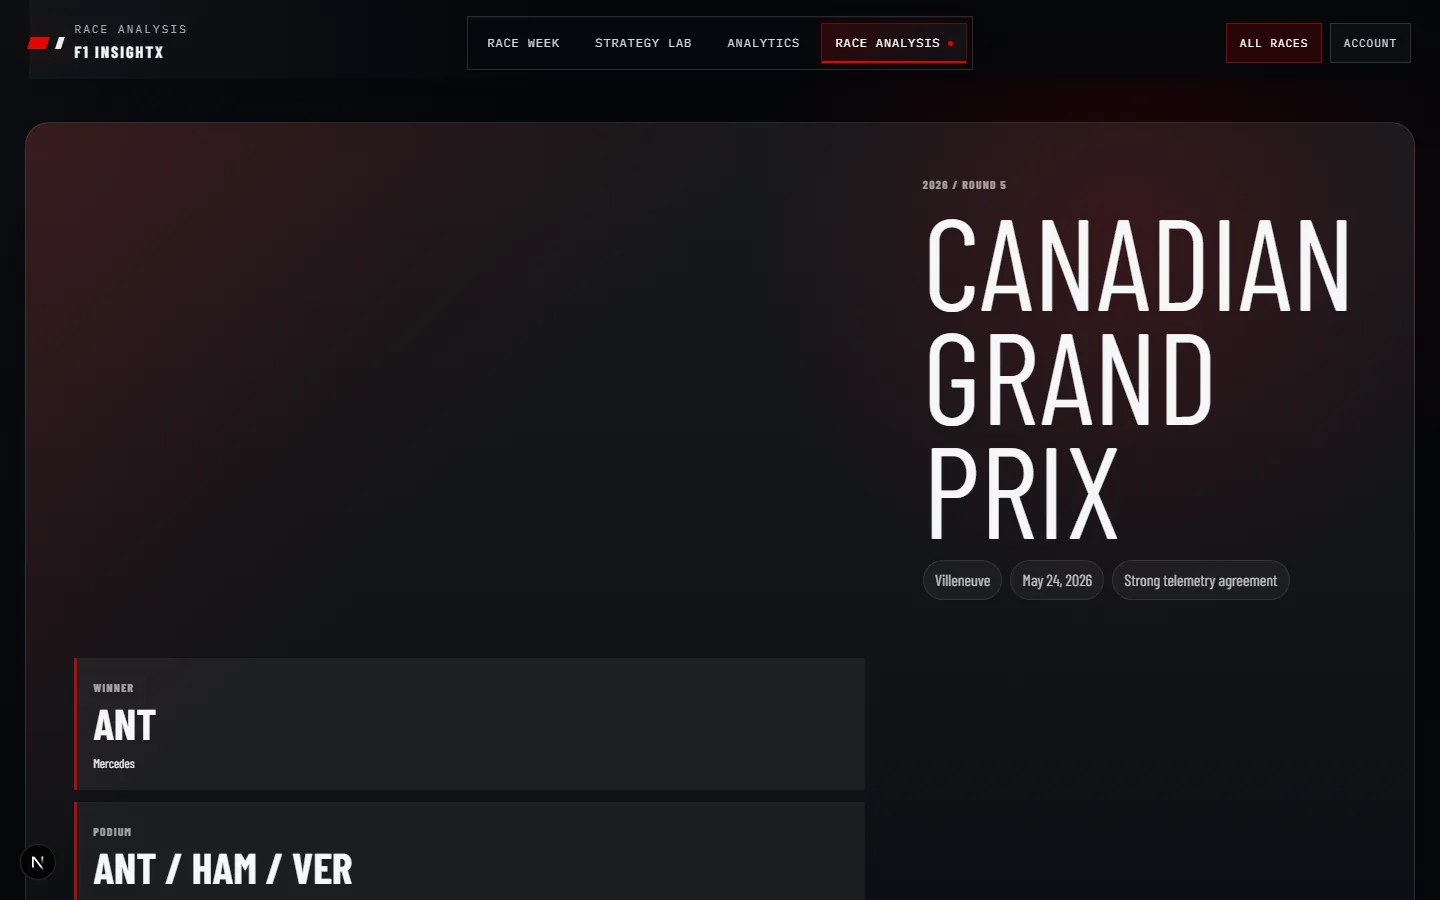
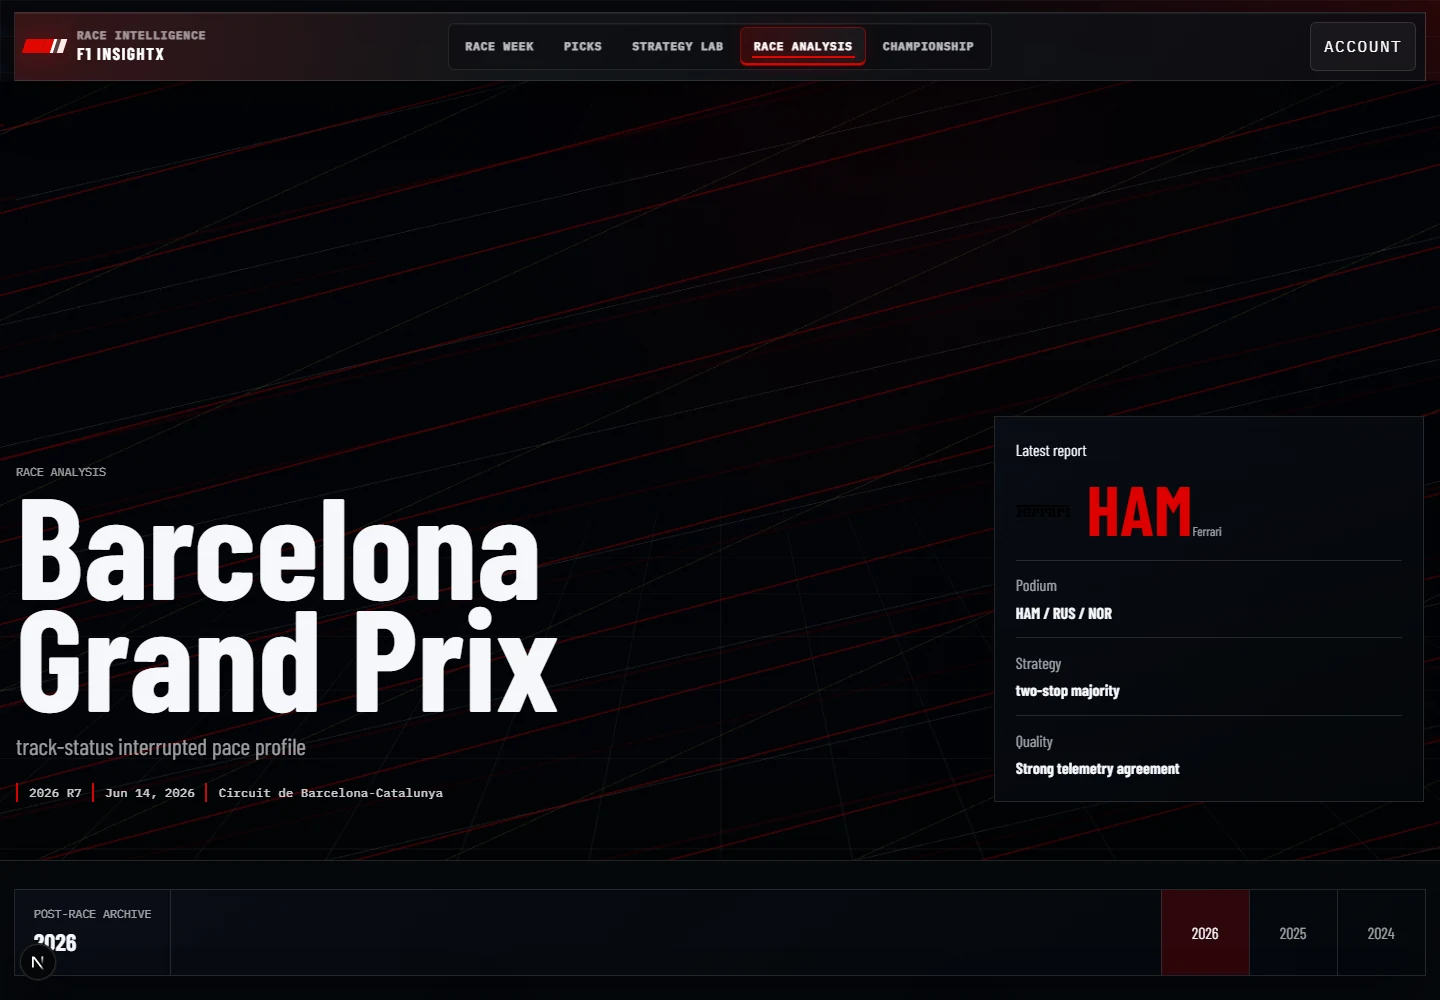
Refresh README data and screenshots

diff --git a/README.md b/README.md
@@ -2,37 +2,61 @@
 
 **Premium F1 telemetry and race intelligence.**
 
-F1 InsightX turns deterministic FastF1 data pipelines into focused race-week, strategy, telemetry, and post-race product experiences. The Next.js application reads compact offline-generated product views; it never parses raw telemetry at runtime.
+F1 InsightX turns deterministic FastF1 data pipelines into focused race-week, strategy, telemetry, championship, and post-race product experiences. The Next.js application reads compact offline-generated product views and indexed shards; it does not parse raw telemetry at runtime.
 
 ## Product Preview
 
-### Analytics - Telemetry Workstation
+### Home - Race Intelligence Overview
 
-Canvas-first driver-vs-driver telemetry comparison with real circuit geometry, representative traces, synchronized focus, same-team color disambiguation, approximate segment analysis, and honest energy deployment proxies.
+First-screen race command view with the next race, current circuit geometry, product navigation, and season context for the active Formula 1 weekend.
 
-![F1 InsightX Analytics telemetry workstation](docs/assets/screenshots/analytics-workstation.webp)
+![F1 InsightX home race intelligence overview](docs/assets/screenshots/home.webp)
 
 ### Race Analysis - Post-Race Intelligence
 
-A cinematic completed-race report built from observed results and deterministic pace, stint, strategy, weather, track-status, traffic-proxy, and position-movement views.
+Cinematic completed-race reports built from observed results and deterministic pace, stint, strategy, weather, track-status, traffic-proxy, and position-movement views.
 
 ![F1 InsightX Race Analysis report](docs/assets/screenshots/race-analysis.webp)
 
 ### Race Week - Weekend Command Center
 
-Upcoming-race context, schedule state, circuit features, conditions, and generated race-week signals presented without inventing unavailable session data.
+Upcoming-race context, schedule state, circuit features, conditions, and generated race-week signals for the Austrian Grand Prix without inventing unavailable session data.
 
 ![F1 InsightX Race Week command center](docs/assets/screenshots/race-week.webp)
 
+### Championship - Season Control
+
+Driver, constructor, and race-derived season records with historical year switching and team-aware visual context.
+
+![F1 InsightX Championship standings](docs/assets/screenshots/championship.webp)
+
 ## Product Surfaces
 
-- **Analytics**: telemetry-derived driver comparison using indexed, session-scoped product shards, representative trace visuals, real circuit geometry, and same-team comparison colors.
+- **Home**: next-race overview, circuit preview, race history, and standings entry points.
 - **Race Analysis**: completed-race story, strategy, pace evolution, weather, track-status, traffic-proxy, and position-movement views.
-- **Strategy Lab**: pit-wall strategy console for deterministic stint and race-strategy simulation with explicit assumptions and sensitivity drivers.
-- **Race Week**: current weekend context, schedule, conditions, circuit metadata, and pre-session signals.
+- **Race Week**: current weekend context, schedule, conditions, circuit metadata, and qualifying prediction signals.
+- **Strategy Lab**: deterministic stint and race-strategy simulation with explicit assumptions and sensitivity drivers. Current next-race Austrian Grand Prix output is pending.
+- **Championship**: driver standings, constructor standings, historical season switching, and achievement-style leaderboards.
 - **Account/Profile**: Supabase-backed authentication, profile, privacy, and account-management flows.
 
+Analytics remains an underlying telemetry product layer and data source. The public `/analytics` route currently redirects to `/race-analysis`, so it is not presented as a primary README screenshot surface.
+
 Fantasy is intentionally hidden from the visible product until it is rebuilt as a separate surface.
+
+## Latest Data Snapshot
+
+The latest local product manifest is `product_manifest_20260618T204630Z`, generated at `2026-06-18T20:46:30Z`, with overall status `passed`.
+
+| Surface | Current evidence |
+| --- | --- |
+| Canonical FastF1 | 361,422 laps, 13,261 results, 46,958 stints, 13,040 session-summary rows, 76 drivers |
+| Telemetry features | 13,060 lap-summary rows; 91,569 energy/straight rows; 104,289 corner speed, braking, throttle, and driver-corner rows |
+| Analytics layer | 663 sessions, 122,479 driver comparisons, 975,725 segment/braking/throttle rows, 856,389 straight/energy-proxy rows |
+| Race Analysis | 52 race analyses, 58,465 pace rows, 58,392 position timeline rows, 1,787 pit-strategy rows |
+| Race Week | Austrian Grand Prix, round 8, scheduled `2026-06-28T13:00:00Z`; race-week product view available |
+| Strategy Lab | Barcelona Grand Prix strategy product available; Austrian Grand Prix Strategy Lab build pending |
+
+Freshness caveat: `season_state` currently validates but is stale by the product-manifest threshold. Treat current-state copy as release-candidate data until the season state is refreshed.
 
 ## Architecture
 
@@ -52,8 +76,9 @@ FastF1 archive
 | `data/canonical_fastf1` | Validated canonical laps, results, stints, sessions, and weather |
 | `data/telemetry_features` | Telemetry-derived segment, braking, throttle, straight-line, and energy-proxy features |
 | `data/strategy_lab` | Deterministic Strategy Lab product views |
-| `data/analytics` | Analytics product views, indexed session shards, and representative trace artifacts |
+| `data/analytics` | Telemetry product views, indexed session shards, and representative trace artifacts |
 | `data/race_analysis` | Completed-race intelligence views |
+| `data/race_week` | Current race-week context, predictions, circuit metadata, and weekend readiness views |
 | Supabase | Authentication, profiles, and deployable database-backed surfaces |
 
 ## Local Development
@@ -94,6 +119,10 @@ python data/build_analytics_indexes.py
 python data/build_analytics_telemetry_traces.py
 python validate_analytics_views.py
 python validate_analytics_telemetry_traces.py
+python data/build_race_analysis_views.py
+python validate_race_analysis_views.py
+python data/build_race_week_layers.py
+python build_season_state.py
 python build_product_manifest.py
 python validate_product_manifest.py
 python check_generated_artifacts.py
@@ -104,7 +133,7 @@ python check_generated_artifacts.py
 - Energy deployment is a **proxy**, not true ERS or battery telemetry.
 - Analytics uses **approximate segments** and does not claim unverified named-corner precision.
 - Same-team Analytics colors are comparison aids only; constructor names and telemetry values remain source-derived.
-- Position movement, traffic, DRS-window, and dirty-air values remain explicitly labelled as proxies where exact evidence is unavailable.
+- Position movement, traffic, DRS-window, dirty-air, and related values remain explicitly labelled as proxy or derived where exact evidence is unavailable.
 - Race-control causes and exact overtakes are not invented.
 - Strategy Lab presents deterministic scenario ranges and assumptions, not ML predictions.
 